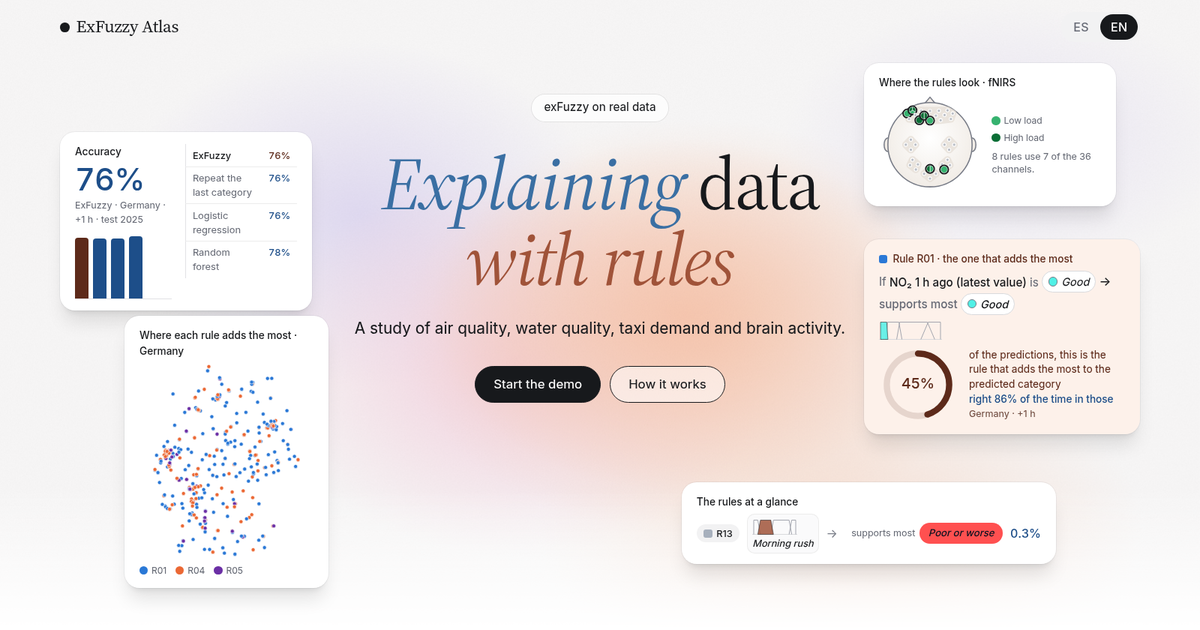
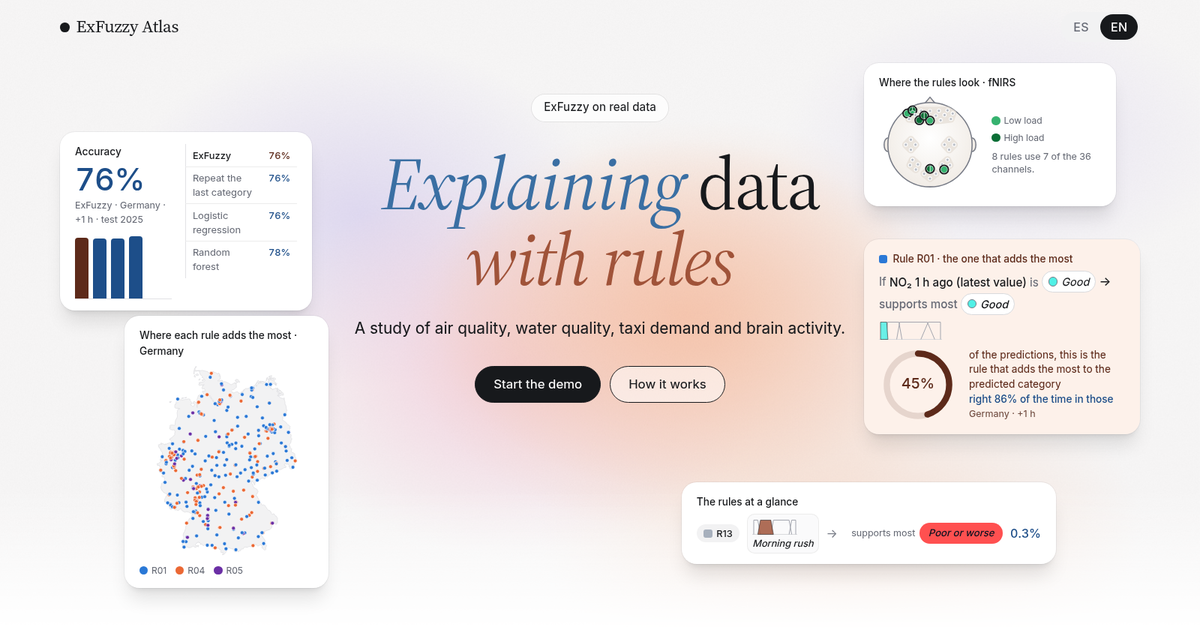
Landing: land and head under the dots; "ExFuzzy" in the kicker
The small maps draw Germany, the North Sea coast around the Tyne and the head under their dots (Natural Earth 1:10m, public domain).

Changed region(s): [[0.1233, 0.573, 0.2467, 0.8746], [0.4625, 0.1508, 0.555, 0.181]]

diff --git a/apps/web/src/components/LandingArtifacts.tsx b/apps/web/src/components/LandingArtifacts.tsx
@@ -13,6 +13,10 @@ import { colourOf, otherRulesLabel, OTHER_RULES_COLOUR, ruleColours } from "../l
 import { groupTerritories } from "../lib/tasks";
 import { classColor } from "../lib/classifier";
 import { ruleWedges, ScalpMap } from "../fnirs/ScalpMap";
+import outlines from "../assets/landing/outlines.json";
+
+/** Land under the dots (Natural Earth 1:10m, public domain; scripts/landing_outlines.py), by domain. */
+const LAND: Partial<Record<string, { fit: boolean; rings: number[][][] }>> = { air: outlines.air, water: outlines.water };
 import { OutcomePill } from "./OutcomePill";
 import { RuleSentenceView } from "./RuleSentenceView";
 import { ACCENT, columnRange, TermGlyph } from "./TermGlyph";
@@ -47,7 +51,7 @@ export function LandingArtifacts() {
         <>
           {card.status === "ok" && <PerfArtifact card={card.data} where={where} unit={task.unit} />}
           {rules.status === "ok" && imp && colours && <RuleArtifact rules={rules.data} importance={imp} colours={colours} task={task} where={where} />}
-          {entities.status === "ok" && imp && colours && <MapArtifact entities={entities.data} importance={imp} colours={colours} where={first.title} mixture={isMixtureImportance(imp)} />}
+          {entities.status === "ok" && imp && colours && <MapArtifact entities={entities.data} importance={imp} colours={colours} where={first.title} mixture={isMixtureImportance(imp)} land={LAND[first.domain] ?? null} />}
           {rules.status === "ok" && imp && colours && <RowArtifact rules={rules.data} importance={imp} colours={colours} task={task} />}
         </>
       )}
@@ -146,8 +150,8 @@ function RuleArtifact({ rules, importance, colours, task, where }: { rules: Mode
   );
 }
 
-/** Where each rule decides most: the stations as dots in the rule's colour (Patrones › Por zonas, in miniature). */
-function MapArtifact({ entities, importance, colours, where, mixture }: { entities: EntityCollection; importance: RuleImportanceResponse; colours: ReadonlyMap<string, string>; where: string; mixture: boolean }) {
+/** Where each rule decides most: the stations as dots in the rule's colour over the land (Patrones › Por zonas, in miniature). */
+function MapArtifact({ entities, importance, colours, where, mixture, land }: { entities: EntityCollection; importance: RuleImportanceResponse; colours: ReadonlyMap<string, string>; where: string; mixture: boolean; land: { fit: boolean; rings: number[][][] } | null }) {
   const byId = new Map(importance.entities.map((e) => [e.entity_id, e] as const));
   const points = entities.features.flatMap((f) => {
     const g = f.geometry;
@@ -158,8 +162,9 @@ function MapArtifact({ entities, importance, colours, where, mixture }: { entiti
     return [{ id: f.properties.entity_id, lon, lat, rule: top.rule_id }];
   });
   if (points.length < 10) return null;
-  const lats = points.map((p) => p.lat);
-  const lons = points.map((p) => p.lon);
+  const framed = land?.fit ? land.rings.flat() : [];
+  const lats = [...points.map((p) => p.lat), ...framed.map((c) => c[1]!)];
+  const lons = [...points.map((p) => p.lon), ...framed.map((c) => c[0]!)];
   const [la0, la1, lo0, lo1] = [Math.min(...lats), Math.max(...lats), Math.min(...lons), Math.max(...lons)];
   const k = Math.cos((((la0 + la1) / 2) * Math.PI) / 180);
   const W = 240;
@@ -173,6 +178,7 @@ function MapArtifact({ entities, importance, colours, where, mixture }: { entiti
     <figure className="lp-art lp-art--map" data-testid="landing-map">
       <p className="lp-art-label">{mixture ? tr(`Dónde suma más cada regla · ${where}`, `Where each rule adds the most · ${where}`) : tr(`Dónde decide cada regla · ${where}`, `Where each rule decides · ${where}`)}</p>
       <svg viewBox={`0 0 ${W + 12} ${H + 12}`} className="lp-map">
+        {land && <path className="lp-map-land" d={land.rings.map((r) => `M${r.map((c) => `${x(c[0]!).toFixed(1)} ${y(c[1]!).toFixed(1)}`).join("L")}Z`).join("")} />}
         {points.map((p) => (
           <circle key={p.id} cx={x(p.lon)} cy={y(p.lat)} r={3.2} style={{ fill: colourOf(colours, p.rule) }} />
         ))}

diff --git a/apps/web/src/Root.test.tsx b/apps/web/src/Root.test.tsx
@@ -32,7 +32,7 @@ describe("the landing page", () => {
     expect(screen.getAllByRole("heading", { level: 1 })).toHaveLength(1);
     expect(screen.getByRole("heading", { level: 1 })).toHaveTextContent("Explicando datos con reglas");
     expect(landing()!.querySelector(".lp-sub")).toHaveTextContent(/^Un estudio de calidad del aire, calidad del agua, demanda de taxis y actividad cerebral\.$/);
-    expect(landing()!.querySelector(".lp-kicker")).toHaveTextContent("exFuzzy con datos reales");
+    expect(landing()!.querySelector(".lp-kicker")).toHaveTextContent("ExFuzzy con datos reales");
     expect(screen.getByRole("link", { name: "Saltar al contenido" })).toBeInTheDocument();
     const text = landing()!.textContent!;
     expect(text).toContain("ex_fuzzy");

diff --git a/apps/web/src/components/Landing.tsx b/apps/web/src/components/Landing.tsx
@@ -78,7 +78,7 @@ export function Landing({ onStart }: { onStart: () => void }) {
         <section className="lp-hero" aria-labelledby="landing-title">
           <div className="lp-wash" aria-hidden="true" />
           <div className="lp-hero-text">
-            <p className="lp-kicker">{tr("exFuzzy con datos reales", "exFuzzy on real data")}</p>
+            <p className="lp-kicker">{tr("ExFuzzy con datos reales", "ExFuzzy on real data")}</p>
             <h1 id="landing-title" className="lp-title" tabIndex={-1}>
               {tr(<><em className="lp-accent-blue">Explicando</em> datos <em className="lp-accent">con reglas</em></>, <><em className="lp-accent-blue">Explaining</em> data <em className="lp-accent">with rules</em></>)}
             </h1>

diff --git a/apps/web/src/styles.css b/apps/web/src/styles.css
@@ -1180,6 +1180,7 @@ a.btn { display: inline-block; font-weight: var(--w-ui); }
 .lp-art--map { bottom: 3.5rem; left: calc(26vw - 250px); width: clamp(240px, 17vw, 300px); }
 .lp-map { display: block; width: 100%; height: auto; max-height: 260px; }
 .lp-map circle { stroke: var(--paper); stroke-width: 0.8; }
+.lp-map-land { fill: var(--mist); fill-rule: evenodd; stroke: var(--line-strong); stroke-width: 0.8; stroke-linejoin: round; }
 .lp-map-key { list-style: none; display: flex; flex-wrap: wrap; gap: 0.2rem 0.75rem; margin: 0.5rem 0 0; padding: 0; font-size: 0.75rem; color: var(--muted); }
 .lp-map-key li { display: inline-flex; align-items: center; gap: 0.3rem; }
 .lp-map-key .lp-swatch { border-radius: 50%; }

diff --git a/scripts/landing_outlines.py b/scripts/landing_outlines.py
@@ -1,0 +1,152 @@
+"""Land outlines for the landing's pictures (apps/web/src/assets/landing/outlines.json).
+
+Germany whole, and Great Britain cropped around the river sampling points, from Natural Earth 1:10m Admin 0
+countries (public domain) as redistributed by the npm package world-atlas 2.0.2 (countries-10m.json, TopoJSON).
+`fit` says whether a picture is framed on the outline too (Germany) or on its dots alone (the rivers).
+
+    npm pack world-atlas@2.0.2 && tar xzf world-atlas-2.0.2.tgz   # in an empty directory
+    python scripts/landing_outlines.py package/countries-10m.json \\
+        artifacts/published/<uk_water_do model>/entities.geojson apps/web/src/assets/landing/outlines.json
+
+Then `npm run gen:landing-maps` in apps/web redraws the SVGs.
+"""
+
+from __future__ import annotations
+
+import json
+import math
+import sys
+from collections.abc import Callable
+
+Point = tuple[float, float]
+SOURCE = (
+    "Natural Earth 1:10m Admin 0 countries v4.1.0 (public domain), via world-atlas 2.0.2; simplified, "
+    "Great Britain cropped around the river sampling points"
+)
+GERMANY, UNITED_KINGDOM = "276", "826"
+
+
+def decode_arcs(topo: dict) -> list[list[Point]]:
+    """The topology's arcs in degrees (quantized and delta-encoded in the file)."""
+    sx, sy = topo["transform"]["scale"]
+    tx, ty = topo["transform"]["translate"]
+    arcs = []
+    for arc in topo["arcs"]:
+        x = y = 0
+        pts = []
+        for dx, dy in arc:
+            x += dx
+            y += dy
+            pts.append((x * sx + tx, y * sy + ty))
+        arcs.append(pts)
+    return arcs
+
+
+def country_rings(topo: dict, arcs: list[list[Point]], country_id: str) -> list[list[Point]]:
+    """Every ring (outer and holes) of one country of the `countries` collection."""
+    geometry = next(g for g in topo["objects"]["countries"]["geometries"] if g.get("id") == country_id)
+    polygons = geometry["arcs"] if geometry["type"] == "MultiPolygon" else [geometry["arcs"]]
+    rings = []
+    for polygon in polygons:
+        for ring_arcs in polygon:
+            pts: list[Point] = []
+            for i in ring_arcs:
+                arc = arcs[i] if i >= 0 else arcs[~i][::-1]
+                pts.extend(arc if not pts else arc[1:])
+            rings.append(pts)
+    return rings
+
+
+def simplify(pts: list[Point], tol: float) -> list[Point]:
+    """Douglas-Peucker on an open polyline, tolerance in degrees."""
+    if len(pts) < 3:
+        return pts
+    (ax, ay), (bx, by) = pts[0], pts[-1]
+    length = math.hypot(bx - ax, by - ay)
+    far, dmax = -1, 0.0
+    for i in range(1, len(pts) - 1):
+        px, py = pts[i]
+        if length == 0:
+            d = math.hypot(px - ax, py - ay)
+        else:
+            d = abs((bx - ax) * (ay - py) - (ax - px) * (by - ay)) / length
+        if d > dmax:
+            dmax, far = d, i
+    if dmax <= tol:
+        return [pts[0], pts[-1]]
+    return simplify(pts[: far + 1], tol)[:-1] + simplify(pts[far:], tol)
+
+
+def clip(pts: list[Point], x0: float, y0: float, x1: float, y1: float) -> list[Point]:
+    """Sutherland-Hodgman: the part of a ring inside a rectangle."""
+
+    def at_x(x: float) -> Callable[[Point, Point], Point]:
+        return lambda q, p: (x, q[1] + (p[1] - q[1]) * (x - q[0]) / (p[0] - q[0]))
+
+    def at_y(y: float) -> Callable[[Point, Point], Point]:
+        return lambda q, p: (q[0] + (p[0] - q[0]) * (y - q[1]) / (p[1] - q[1]), y)
+
+    edges: list[tuple[Callable[[Point], bool], Callable[[Point, Point], Point]]] = [
+        (lambda p: p[0] >= x0, at_x(x0)),
+        (lambda p: p[0] <= x1, at_x(x1)),
+        (lambda p: p[1] >= y0, at_y(y0)),
+        (lambda p: p[1] <= y1, at_y(y1)),
+    ]
+    for inside, cut in edges:
+        out: list[Point] = []
+        for i, p in enumerate(pts):
+            q = pts[i - 1]
+            if inside(p):
+                if not inside(q):
+                    out.append(cut(q, p))
+                out.append(p)
+            elif inside(q):
+                out.append(cut(q, p))
+        pts = out
+        if not pts:
+            break
+    return pts
+
+
+def area(ring: list[Point]) -> float:
+    return abs(sum(a[0] * b[1] - b[0] * a[1] for a, b in zip(ring, ring[1:], strict=False))) / 2
+
+
+def rounded(rings: list[list[Point]]) -> list[list[list[float]]]:
+    return [[[round(x, 4), round(y, 4)] for x, y in ring] for ring in rings if len(ring) >= 4]
+
+
+def main(topo_path: str, water_geojson: str, out_path: str) -> None:
+    with open(topo_path) as f:
+        topo = json.load(f)
+    arcs = decode_arcs(topo)
+
+    germany = [simplify(r, 0.01) for r in country_rings(topo, arcs, GERMANY)]
+    germany = [r for r in germany if len(r) >= 4 and area(r) > 0.001]  # islands smaller than a dot go
+
+    with open(water_geojson) as f:
+        points = [feature["geometry"]["coordinates"] for feature in json.load(f)["features"]]
+    lon0, lon1 = min(p[0] for p in points), max(p[0] for p in points)
+    lat0, lat1 = min(p[1] for p in points), max(p[1] for p in points)
+    mx, my = (lon1 - lon0) * 0.8, (lat1 - lat0) * 0.8
+    britain = []
+    for ring in country_rings(topo, arcs, UNITED_KINGDOM):
+        cut = simplify(clip(ring, lon0 - mx, lat0 - my, lon1 + mx, lat1 + my), 0.002)
+        if cut and cut[0] != cut[-1]:
+            cut.append(cut[0])
+        britain.append(cut)
+
+    doc = {
+        "source": SOURCE,
+        "air": {"name": "Germany", "fit": True, "rings": rounded(germany)},
+        "water": {"name": "Great Britain (part)", "fit": False, "rings": rounded(britain)},
+    }
+    with open(out_path, "w") as f:
+        json.dump(doc, f, separators=(",", ":"))
+    for key in ("air", "water"):
+        rings = doc[key]["rings"]
+        print(f"{key}: {len(rings)} rings, {sum(map(len, rings))} points")
+
+
+if __name__ == "__main__":
+    main(*sys.argv[1:4])

diff --git a/ATTRIBUTION.md b/ATTRIBUTION.md
@@ -16,6 +16,7 @@ atribución de cada dominio (`apps/web/src/lib/domainUi.ts`).
 | Calidad del agua, Environment Agency (`uk-water-quality`) | oxígeno disuelto y determinandos de la tarea `uk_water_do` (Northumberland & Tyne, ríos, 2015-2025) | Open Government Licence v3.0 | *Contains public sector information licensed under the Open Government Licence v3.0. © Environment Agency copyright and/or database right 2025. All rights reserved.* | manifiesto `configs/water/uk_water_quality.json`; ficha de data.gov.uk (2026-10-31): «Open Government Licence v3.0» |
 | NYC TLC Trip Record Data y Taxi Zones (`nyc-tlc`) | demanda de taxi amarillo por zona y hora (`nyc_pickups_h1`), polígonos de zona | **Sin licencia abierta explícita.** Rigen la NYC Open Data Legal Policy y los NYC.gov Terms of Use; TLC no garantiza la exactitud | NYC Taxi & Limousine Commission (TLC) Trip Record Data and Taxi Zones, <https://www.nyc.gov/site/tlc/about/tlc-trip-record-data.page>. Los datos de viaje fueron recogidos por los proveedores TPEP/LPEP y no los creó la TLC | manifiesto `configs/mobility/nyc_tlc.json` y `DATA_SOURCES.md` (A3, 2026-10-30); la página de TLC no declara licencia (2026-10-31). Decisión del usuario (2026-11-06): **no bloquea el uso como demo** (la web, capturas, charlas, un despliegue de demostración); revisar los términos solo antes de **publicar para descarga** los artefactos derivados (ver abajo). Sí van en la release privada de CI `qa-artifacts` |
 | Mapa base: OpenFreeMap, datos de OpenStreetMap | fondo del mapa en la web (estilo `positron`, `https://tiles.openfreemap.org/styles/positron`); necesita internet, sin él se dibuja un fondo liso | Datos: **ODbL 1.0** (OpenStreetMap). Esquema de teselas: OpenMapTiles | La fuente de teselas declara: «OpenFreeMap © OpenMapTiles Data from OpenStreetMap» (TileJSON `https://tiles.openfreemap.org/planet`, 2026-10-31). La web muestra «OpenFreeMap © OpenMapTiles · datos © OpenStreetMap contributors» (hallazgo QA-2, resuelto). Estilo, glifos y licencia de OpenFreeMap **[sin verificar]** más allá de la atribución anterior | TileJSON consultado; licencias de OpenFreeMap y de OpenMapTiles no leídas en sus sitios |
+| Natural Earth 1:10m, Admin 0 countries v4.1.0 (vía el paquete npm `world-atlas` 2.0.2, licencia ISC) | contorno de Alemania y de la costa del noreste de Inglaterra bajo los puntos de los mapas pequeños del inicio (`apps/web/src/assets/landing/outlines.json`, `scripts/landing_outlines.py`) | Dominio público | No se exige; se cita «Made with Natural Earth» por cortesía | README de `world-atlas` leído (2026-11-17); términos de Natural Earth no leídos en su sitio |
 | Índice Nacional de Calidad del Aire (ICA), MITECO | límites, nombres, colores y mensajes de las categorías de NO₂ (`configs/ml/ica_no2_scheme.json`) | El PDF no lleva texto de licencia ni de reutilización. Es una resolución oficial (en España las disposiciones legales y reglamentarias no son objeto de propiedad intelectual, art. 13 de la Ley de Propiedad Intelectual) y de ella solo se toman límites, nombres, colores y mensajes: **no bloquea** (decisión del usuario, 2026-11-06; lectura práctica, no un dictamen jurídico) | Ministerio para la Transición Ecológica y el Reto Demográfico, Resolución de la Dirección General de Calidad y Evaluación Ambiental por la que se modifica el anexo de la Orden TEC/351/2019, de 18 de marzo, por la que se aprueba el Índice Nacional de Calidad del Aire: <https://www.miteco.gob.es/content/dam/miteco/images/es/resoluciondgactualizacionica_tcm30-509833.pdf> | Los límites de NO₂ se releyeron en el PDF (2026-10-31): 0-40, 41-90, 91-120, 121-230, 231-340, 341-1000. La fecha y el BOE de la resolución (2020-09-02, BOE 242) **no** salen del PDF: vienen de una página secundaria, como ya advierte el esquema. Los colores están muestreados de la tabla del PDF, no escritos en él |
 | NO₂ horario de Alemania, EEA (`eea-air-de`) | NO₂ y lags de las tareas `de_no2_h1` … `de_no2_h24`; geometría de las estaciones | CC BY 4.0; titular: European Environment Agency (EEA) | European Environment Agency (EEA), Air Quality Download Service, datos E1a (verificados) y E2a (actualizados) notificados por Alemania (Umweltbundesamt y los Länder) según la Decisión de Ejecución 2011/850/UE: <https://www.eea.europa.eu/en/datahub/datahubitem-view/778ef9f5-6293-4846-badd-56a29c70880d> | `configs/air/de_eea.json` (`license_evidence`: registro de metadatos del catálogo SDI de la EEA y su aviso legal); copiado de la configuración, no releído hoy |
 | Meteorología horaria de Alemania, DWD (`dwd-meteo-de`) | temperatura, humedad, viento y presión de las tareas de Alemania | CC BY 4.0 con atribución de la fuente | Deutscher Wetterdienst (DWD), Climate Data Center (CDC): observaciones horarias de estaciones: <https://opendata.dwd.de/climate_environment/CDC/observations_germany/climate/hourly/> | `configs/air/de_dwd.json` (Terms_of_use.pdf del CDC, versión de mayo de 2024, y descripciones de los conjuntos); copiado de la configuración, no releído hoy |
